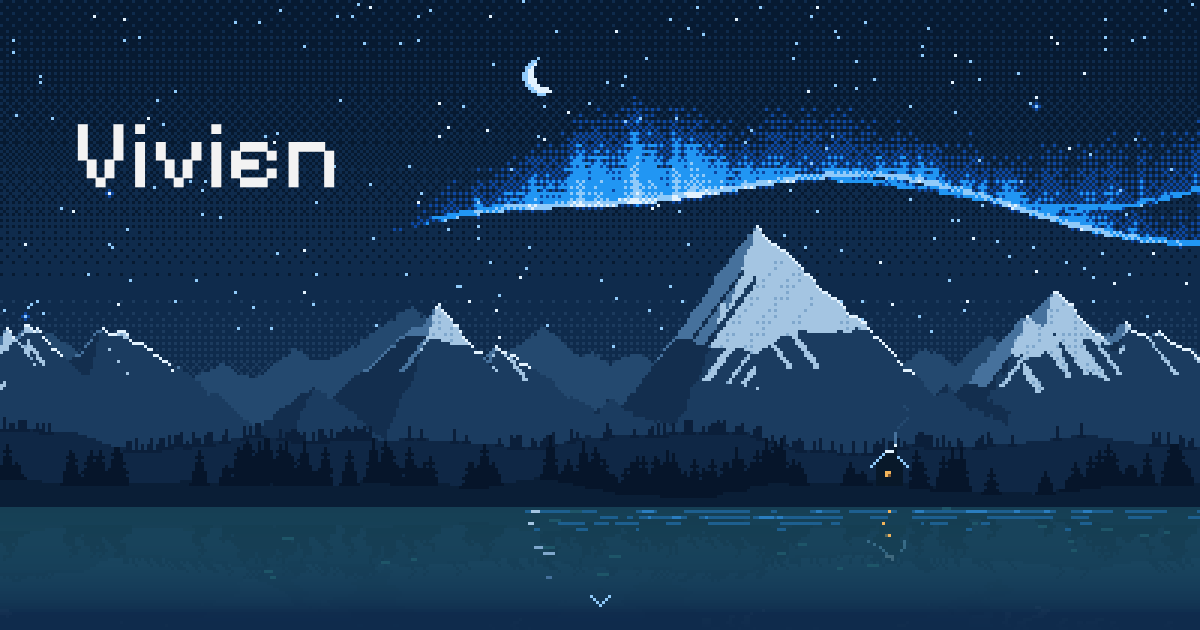
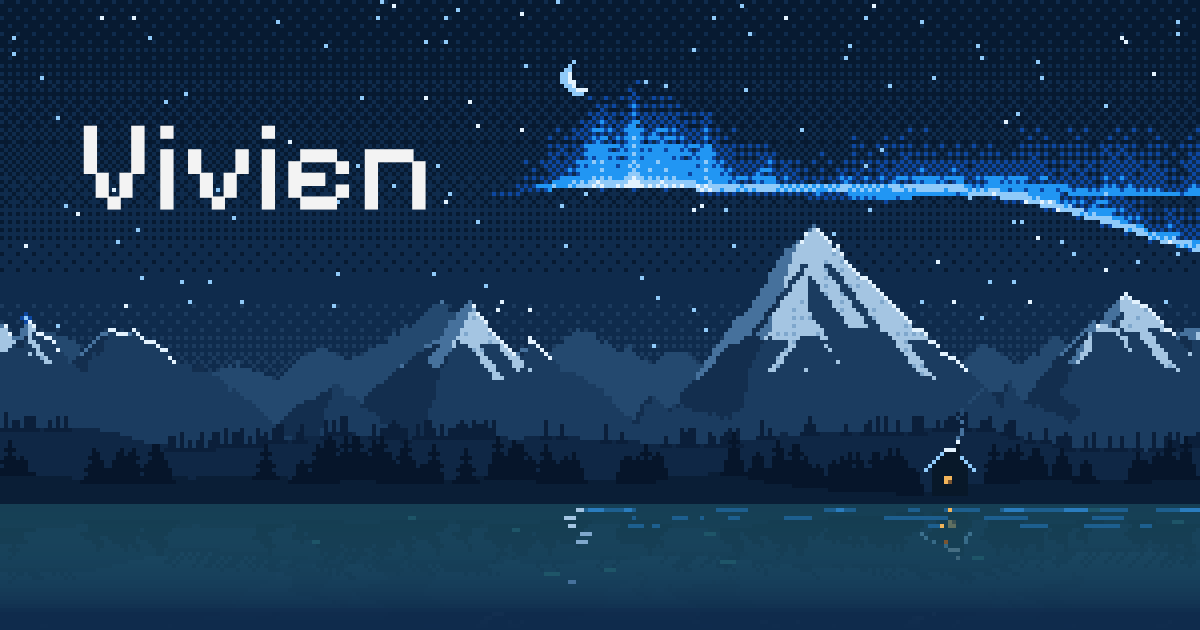
Sharper link preview, fuller share tags, wide-screen scene scale
- og.png now captured on the 4px grid at the still frame without the scroll
  cue: bigger name, even pixels; tools/og.js regenerates it and stamps the
  cache-busting hash into og:image in one step
- description mentions Nordic metal; add canonical, og:site_name,
  og:image:type and twitter:image:alt
- scene pixel grows to 5px from 1760px and 6px from 2400px so wide screens
  keep the composition; text-layer marks use --ui-px, capped at 4px
- drop an unused palette colour

Claude-Session: https://claude.ai/code/session_01W1WJo8FCiKhhtBsWrrJKbP

Changed region(s): [[0.0, 0.0, 1.0, 0.8746], [0.0, 0.4825, 0.1233, 0.573], [0.1233, 0.5429, 0.1542, 0.573]]

diff --git a/tools/og.js b/tools/og.js
@@ -1,0 +1,39 @@
+// Regenerates og.png (the link preview) from the live scene and stamps its hash
+// into index.html's og:image URL, so sites that cache previews by URL refetch it.
+// Run from the repo root after any visual change:  node tools/og.js
+// Needs Playwright with Chromium available to Node.
+const http = require("http");
+const fs = require("fs");
+const path = require("path");
+const crypto = require("crypto");
+const { chromium } = require("playwright");
+
+const root = path.resolve(__dirname, "..");
+const types = { ".html": "text/html", ".css": "text/css", ".js": "text/javascript", ".svg": "image/svg+xml", ".png": "image/png", ".woff2": "font/woff2" };
+
+const server = http.createServer((req, res) => {
+  const file = path.join(root, decodeURIComponent(req.url.split("?")[0]).replace(/\/$/, "/index.html"));
+  if (!file.startsWith(root) || !fs.existsSync(file)) { res.writeHead(404); return res.end(); }
+  res.writeHead(200, { "Content-Type": types[path.extname(file)] || "application/octet-stream" });
+  fs.createReadStream(file).pipe(res);
+});
+
+server.listen(0, async () => {
+  const browser = await chromium.launch();
+  // 1280 wide gives the scene its 4-screen-pixel grid; 686 tall makes the hero (92vh) fill 630.
+  // Reduced motion renders the scene's fixed still frame, so the image is the same every run.
+  const page = await browser.newPage({ viewport: { width: 1280, height: 686 }, reducedMotion: "reduce" });
+  await page.goto(`http://localhost:${server.address().port}/`);
+  await page.addStyleTag({ content: ".cue { display: none !important; }" });
+  await page.evaluate(() => document.fonts.ready);
+  await page.waitForTimeout(500);
+  const out = path.join(root, "og.png");
+  await page.screenshot({ path: out, clip: { x: 0, y: 0, width: 1200, height: 630 } });
+  await browser.close();
+  server.close();
+
+  const hash = crypto.createHash("sha256").update(fs.readFileSync(out)).digest("hex").slice(0, 8);
+  const index = path.join(root, "index.html");
+  fs.writeFileSync(index, fs.readFileSync(index, "utf8").replace(/og\.png(\?v=[0-9a-f]+)?"/g, `og.png?v=${hash}"`));
+  console.log(`og.png written, og:image now ?v=${hash}`);
+});

diff --git a/index.html b/index.html
@@ -4,17 +4,21 @@
   <meta charset="UTF-8">
   <meta name="viewport" content="width=device-width, initial-scale=1">
   <title>Vivien</title>
-  <meta name="description" content="Vivien: mechanical engineer, former musician and programmer.">
+  <meta name="description" content="Vivien: mechanical engineer, formerly a musician and programmer, listening to Nordic metal.">
+  <link rel="canonical" href="https://meowzerskittycat.github.io/">
   <meta name="theme-color" content="#071a31">
   <meta property="og:type" content="website">
   <meta property="og:title" content="Vivien">
-  <meta property="og:description" content="Mechanical engineer, former musician and programmer.">
+  <meta property="og:site_name" content="Vivien">
+  <meta property="og:description" content="Mechanical engineer, formerly a musician and programmer, listening to Nordic metal.">
   <meta property="og:url" content="https://meowzerskittycat.github.io/">
-  <meta property="og:image" content="https://meowzerskittycat.github.io/og.png?v=5c7e945a">
+  <meta property="og:image" content="https://meowzerskittycat.github.io/og.png?v=df4a0a74">
+  <meta property="og:image:type" content="image/png">
   <meta property="og:image:width" content="1200">
   <meta property="og:image:height" content="630">
   <meta property="og:image:alt" content="Vivien, written over a pixel-art polar night: mountains, a fjord, a blue aurora and a lit cabin.">
   <meta name="twitter:card" content="summary_large_image">
+  <meta name="twitter:image:alt" content="Vivien, written over a pixel-art polar night: mountains, a fjord, a blue aurora and a lit cabin.">
   <link rel="preload" href="fonts/pixelify-sans-latin.woff2" as="font" type="font/woff2" crossorigin>
   <link rel="icon" href="favicon.svg" type="image/svg+xml">
   <link rel="apple-touch-icon" href="apple-touch-icon.png">

diff --git a/style.css b/style.css
@@ -119,8 +119,8 @@ h1 {
 /* pixel icons: 9x9 grids drawn as rects, scaled whole */
 .px-icon {
   /* 9 grid cells, each one whole scene pixel */
-  width: calc(var(--scene-px, 4px) * 9);
-  height: calc(var(--scene-px, 4px) * 9);
+  width: calc(var(--ui-px, 4px) * 9);
+  height: calc(var(--ui-px, 4px) * 9);
   flex: none;
   fill: var(--ice);
   shape-rendering: crispEdges;
@@ -143,7 +143,7 @@ main {
   grid-template-columns: minmax(0, 1fr);
   gap: 0.75rem;
   padding: clamp(1.5rem, 4vh, 2.25rem) 0;
-  background: linear-gradient(90deg, var(--ridge) 50%, transparent 0) left top / calc(var(--scene-px, 4px) * 2) var(--scene-px, 4px) repeat-x;
+  background: linear-gradient(90deg, var(--ridge) 50%, transparent 0) left top / calc(var(--ui-px, 4px) * 2) var(--ui-px, 4px) repeat-x;
 }
 
 .row:first-child { background: none; padding-top: 0; }
@@ -195,7 +195,7 @@ dd {
 
 /* a pixel level meter: whole-pixel steps, never smooth */
 .eq {
-  --b: var(--scene-px, 4px);
+  --b: var(--ui-px, 4px);
   display: flex;
   align-items: flex-end;
   gap: var(--b);
@@ -256,8 +256,8 @@ dd {
 .bands li::before {
   content: "";
   flex: none;
-  width: calc(var(--scene-px, 4px) * 2);
-  height: calc(var(--scene-px, 4px) * 2);
+  width: calc(var(--ui-px, 4px) * 2);
+  height: calc(var(--ui-px, 4px) * 2);
   background: var(--ice);
 }
 

diff --git a/scene.js b/scene.js
@@ -28,7 +28,6 @@
     farShade: hex("#132e4e"),
     hill: hex("#0f2745"),
     hillTree: hex("#0b1f3a"),
-    hillSnow: hex("#3f6a94"),
     near: hex("#0a1e36"),
     pine: hex("#06152a"),
     cabin: hex("#081829"),
@@ -85,9 +84,11 @@
 
   function layout() {
     const rect = canvas.parentElement.getBoundingClientRect();
-    // 3 or 4 screen px per art pixel; the name in CSS is set on a 2-art-pixel grid from this
-    scale = Math.min(4, Math.max(3, Math.floor(rect.width / 320)));
+    // 3 to 6 screen px per art pixel, so the scene keeps its composition on wide screens;
+    // the name in CSS is set on this grid, the small text-layer marks stop growing at 4
+    scale = rect.width >= 2400 ? 6 : rect.width >= 1760 ? 5 : Math.min(4, Math.max(3, Math.floor(rect.width / 320)));
     document.documentElement.style.setProperty("--scene-px", scale + "px");
+    document.documentElement.style.setProperty("--ui-px", Math.min(4, scale) + "px");
     W = Math.max(80, Math.ceil(rect.width / scale));
     H = Math.max(80, Math.ceil(rect.height / scale));
     canvas.width = W;

diff --git a/DESIGN.md b/DESIGN.md
@@ -64,7 +64,7 @@ components:
     padding: "clamp(1.5rem, 4vh, 2.25rem) 0"
   ledger-rule:
     backgroundColor: "{colors.ridge}"
-    height: "var(--scene-px)"
+    height: "var(--ui-px)"
   ledger-label:
     textColor: "{colors.ink-soft}"
     typography: "{typography.label}"
@@ -78,18 +78,18 @@ components:
   pixel-icon:
     backgroundColor: "{colors.ice}"
     rounded: "{rounded.none}"
-    size: "calc(var(--scene-px) * 9)"
+    size: "calc(var(--ui-px) * 9)"
   band-name:
     textColor: "{colors.snow}"
     typography: "{typography.item}"
   band-marker:
     backgroundColor: "{colors.ice}"
     rounded: "{rounded.none}"
-    size: "calc(var(--scene-px) * 2)"
+    size: "calc(var(--ui-px) * 2)"
   level-meter-bar:
     backgroundColor: "{colors.ice}"
     rounded: "{rounded.none}"
-    width: "calc(var(--scene-px) * 2)"
+    width: "calc(var(--ui-px) * 2)"
 ---
 
 # Design System: Vivien
@@ -105,7 +105,7 @@ Below the waterline the introduction is one ledger: a few rows, each a small lab
 The direction contract still names a lamplight text mark; it was removed from the build at the user's request, and the build is the record here.
 
 **Key Characteristics:**
-- Canvas scenes drawn at a whole-number art-pixel scale (3 or 4 screen px per art pixel) and upscaled with crisp, pixelated edges; the hero scene opens the page and a shore canvas closes it.
+- Canvas scenes drawn at a whole-number art-pixel scale (3 or 4 screen px per art pixel, 5 from 1760px wide and 6 from 2400px so wide screens keep the same composition) and upscaled with crisp, pixelated edges; the hero scene opens the page and a shore canvas closes it.
 - Dark fjord set as ground; the ice-blue set is light: the sky, plus a few small pixel marks in the text.
 - One warm accent, the cabin's lamplight, and only inside the scene.
 - One face (Pixelify Sans, 400) across every role; size is the main hierarchy lever.
@@ -152,7 +152,7 @@ The scenes shade their terrain with in-between blues defined in `scene.js` and n
 **Character:** A single pixel face that shares the scene's grid, so the name looks drawn in the same night as the mountains. It stays at regular weight everywhere; the pixel grid already gives it all the weight it needs.
 
 ### Hierarchy
-- **Display** (400, display size, 0.9): the name only. Sized from the scene scale, not a fluid clamp: `calc(var(--scene-px) * 32.64)`, so each glyph pixel lands on exactly three art pixels. That is the listed 131px at a 4px scene scale and about 98px at 3px. The name stands alone in the hero; what Vivien does is said once, in the ledger.
+- **Display** (400, display size, 0.9): the name only. Sized from the scene scale, not a fluid clamp: `calc(var(--scene-px) * 32.64)`, so each glyph pixel lands on exactly three art pixels. That is the listed 131px at a 4px scene scale, about 98px at 3px, and up to 196px on very wide screens. The name stands alone in the hero; what Vivien does is said once, in the ledger.
 - **Item** (400, item size, 1.2): the content of each ledger row (the trades and the band names). The largest type below the hero; every row's content shares it so the rows read as equals. 32.64px from 46rem wide, 21.76px below.
 - **Body** (400, body size, 1.5): default text and the note above the bands (the note drops to 16.32px below 46rem so it stays under the items).
 - **Label** (400, label size, one glyph pixel of tracking, uppercase): the ledger's row labels only, in ink-soft. 21.76px from 46rem wide, 16.32px below.
@@ -198,11 +198,11 @@ The page has no buttons, inputs, navigation, or cards, by product decision (no l
 
 ### Pixel Night Scene (signature)
 - **What:** a full-bleed canvas in the hero, drawn procedurally from fixed seeds so every visit shows the same place: stars, a crescent moon, two drifting aurora curtains (broad slow folds with faint vertical streaks, brightest at a lit hem, dissolving upward into the sky through dither so the top never forms a hard spiky edge), a hazy back range, an alpine range with one tall horn, shouldered peaks, an uneven snowline, rock ribs and snow couloirs, forested foothills with a comb of small pines, a pine shore, one cabin with roof snow, a lit window and a chimney, and the reflecting fjord. The sky is clear: no snow falls in the hero, so nothing crosses the name.
-- **Rendering:** low-resolution buffer (about 320 art pixels across on desktop) upscaled by an exact whole number (the canvas element is sized to W x scale, overhanging its box by under one art pixel), so every art pixel is the same size; the art scale is published to CSS as `--scene-px`, and the nameplate's padding is rounded to it so the name's pixels sit on the art's. Per frame, the aurora's column terms are computed once and only its band of rows is evaluated; the sky's dither colours are precomputed per row (about 2ms a frame on desktop).
+- **Rendering:** low-resolution buffer (about 320 art pixels across on desktop) upscaled by an exact whole number (the canvas element is sized to W x scale, overhanging its box by under one art pixel), so every art pixel is the same size; the art scale is published to CSS as `--scene-px` (and as `--ui-px`, capped at 4px, for the icons, meter, band markers and row rules so they stay in proportion to the text), and the nameplate's padding is rounded to it so the name's pixels sit on the art's. Per frame, the aurora's column terms are computed once and only its band of rows is evaluated; the sky's dither colours are precomputed per row (about 2ms a frame on desktop).
 - **Aurora placement:** on landscape screens the curtain begins a few art pixels to the right of the name's ink, measured after the font loads, so the two never touch.
 - **Motion:** slow aurora drift, star twinkle, a rare shooting star (about 0.8s, first after ~6s, then every ~29s), chimney smoke, water ripple, a short flickering lamp reflection, a cabin lamp that now and then gutters one pane to ember for a moment, the aurora's light lying on the near water as broken ripple lines (two sunk glacier tones, every other row, only in the top third of the fjord, rippling with the reflection), and the moon's glade (thin dashes that pale from lit to shaded snow with depth, broken across the water beneath the moon, never a solid column), stepped at 10 frames a second. Tapping the sky sends a shooting star from that point toward the middle of the scene (at most three at once); it is a quiet extra, never needed, and ignored under reduced motion. The water fades fully into the page colour before the hero's edge, with no dither stripe. The shore canvas at the page foot keeps the snow falling at two depths, far flakes passing behind the pines, and runs only while it is on screen. It pauses when offscreen or the tab is hidden; with reduced motion it renders one still frame.
 - **Arrival:** when motion is welcome, scene.js adds `.reveal` to the root: the name wipes in left to right in 6 whole steps and the cue follows. The ledger is never held back, so previews, print and full-page captures always show it. Without the class nothing is hidden.
-- **Share preview:** `og.png`, a 1200x630 capture of the hero at rest, is the Open Graph and large Twitter card image. Regenerate it after every visual change and bump the `?v=` query on `og:image` to the first 8 hex digits of its SHA-256, so platforms that cache previews by URL fetch the new one.
+- **Share preview:** `og.png`, a 1200x630 capture of the hero at rest, is the Open Graph and large Twitter card image. It is captured at a 1280px viewport (the 4px grid, so the name is large and every pixel even), at the reduced-motion still frame, without the scroll cue. After every visual change run `node tools/og.js`: it rewrites og.png and sets the `?v=` query on `og:image` to the image's hash, so platforms that cache previews by URL fetch the new one.
 - **Favicon:** `favicon.svg`, a 16x16 pixel peak (lit left flank in shaded snow, right flank in ridge, a stepped asymmetric snow cap) under an aurora band, on night; `apple-touch-icon.png` is the same art at 11x on 180px.
 - **Browser chrome:** `theme-color` is the sky's top tone, #071a31, so a mobile browser bar meets the sky without a step.
 - **Accessibility:** the canvas is `role="img"` with a one-sentence description of the scene.
@@ -235,7 +235,7 @@ The page has no buttons, inputs, navigation, or cards, by product decision (no l
 
 ### Do:
 - **Do** keep the page field night and every surface flat; the canvases are the only images.
-- **Do** draw any new pixel art on the same whole-number art-pixel grid (3 or 4 screen px) with `image-rendering: pixelated`, and size small marks in multiples of the scene pixel.
+- **Do** draw any new pixel art on the same whole-number art-pixel grid (3 to 6 screen px) with `image-rendering: pixelated`, and size small text-layer marks in multiples of `--ui-px` (the scene pixel, capped at 4px).
 - **Do** step sky, aurora, and haze tones with ordered dither between palette colors.
 - **Do** set every text role in Pixelify Sans 400 and build hierarchy by size, using snow for primary text and ink-soft for secondary.
 - **Do** keep layout left-aligned inside the fluid gutter, with generous viewport-scaled vertical space; add new facts as ledger rows on the shared label column.

diff --git a/README.md b/README.md
@@ -7,7 +7,8 @@ Plain static files, no build step:
 - `index.html` – the page
 - `style.css` – type, colour and layout
 - `scene.js` – draws the pixel-art polar night (mountains, fjord, aurora, moonlit water, cabin) and the snowy shore at the page foot; animates at 10 fps, wipes the name in on arrival, and stays still for visitors who prefer reduced motion
-- `og.png` – the link preview image (a capture of the hero); after regenerating it, update the `?v=` hash on `og:image` in `index.html` so caches refresh
+- `og.png` – the link preview image (a capture of the hero)
+- `tools/og.js` – regenerates `og.png` and its cache-busting `?v=` hash in `index.html`; run `node tools/og.js` after any visual change (needs Playwright)
 - `favicon.svg`, `apple-touch-icon.png` – a pixel peak under the aurora
 - `fonts/` – Pixelify Sans, self-hosted (SIL Open Font License, see `fonts/OFL.txt`)
 
